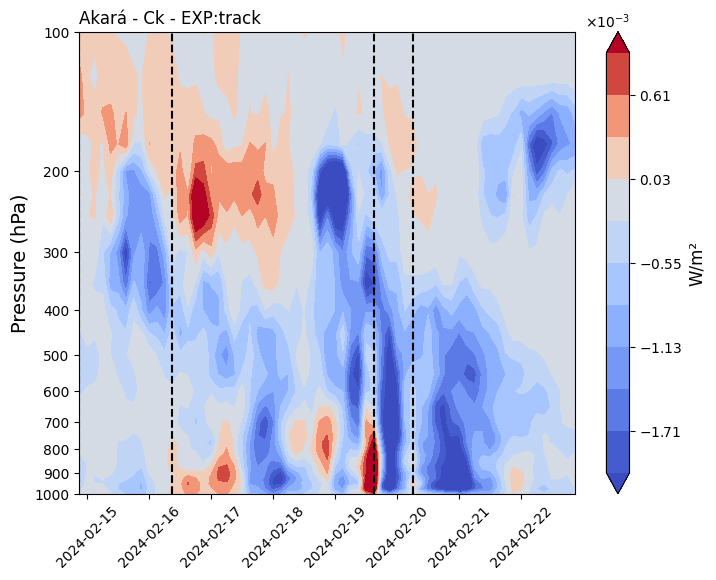
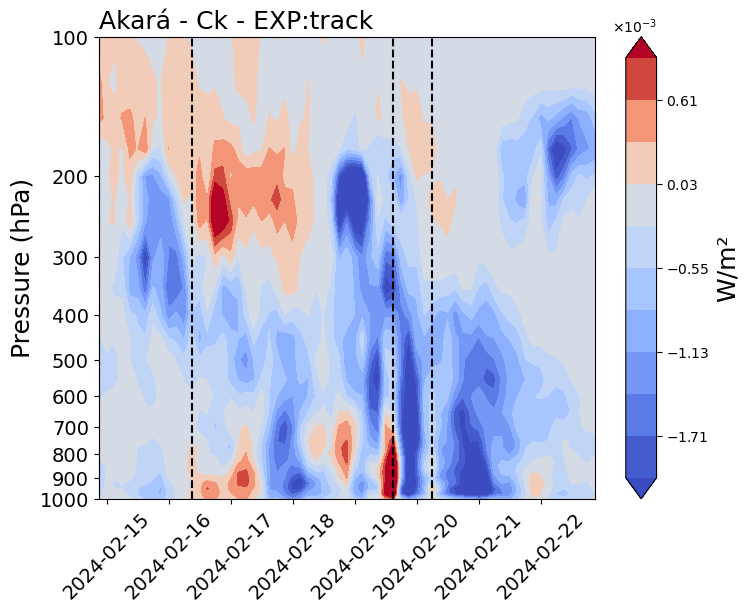
atualização ck

Changed region(s): [[0.0, 0.0, 0.9832, 0.9931]]

diff --git a/Akara/AtmosBud/akara1_track/Scripts/ck_hov.py b/Akara/AtmosBud/akara1_track/Scripts/ck_hov.py
@@ -5,6 +5,7 @@ import pandas as pd
 from matplotlib.colors import TwoSlopeNorm
 from matplotlib.ticker import ScalarFormatter
 from matplotlib.dates import DateFormatter
+import os
 
 # Diretórios dos dados e das figuras
 DIRDADO = '/home/victor/USP/sinotica3/ATMOS-BUD_Results/Akara/AtmosBud/akara1_track/'
@@ -49,11 +50,22 @@ norm = TwoSlopeNorm(vmin=vmin, vcenter=0, vmax=vmax)
 fig, ax = plt.subplots(figsize=(8, 6))
 
 # Gerando o gráfico Hovmöller com contornos preenchidos
+# Gerando o gráfico Hovmöller com contornos preenchidos
 im = ax.contourf(df.columns, df.index, df.values, cmap='coolwarm', extend='both',  
                  norm=norm, levels=np.linspace(vmin, vmax, 11))
 
 # Adicionando a barra de cores
-cbar = fig.colorbar(im)
+cbar = fig.colorbar(im, pad=0.05, aspect=15)
+
+# Ajustando a fonte e o tamanho da barra de cores
+cbar.set_label('W/m²', fontsize=18) 
+cbar.ax.tick_params(labelsize=14)  
+
+# Se necessário, adicione formatação científica (já foi feito acima)
+cbar.formatter = ScalarFormatter(useMathText=True)
+cbar.formatter.set_scientific(True)
+cbar.formatter.set_powerlimits((-3, 3))
+cbar.update_ticks()
 
 ax.invert_yaxis()
 ax.set_ylim(1000, 100)
@@ -70,13 +82,15 @@ for time in ['2024-02-14T21', '2024-02-16T09', '2024-02-19T15', '2024-02-20T06']
 ax.xaxis.set_major_locator(mdates.AutoDateLocator())
 ax.xaxis.set_major_formatter(DateFormatter('%Y-%m-%d'))
 ax.tick_params(axis='x', labelrotation=45)
+ax.tick_params(axis='x', labelsize=14)  # Fonte para os rótulos do eixo X
+ax.tick_params(axis='y', labelsize=14)
 
 # Configurar título e rótulos dos eixos
-ax.set_title(f'Akará - Ck - EXP:track', fontsize=12, loc='left')
-ax.set_ylabel('Pressure (hPa)', fontsize=14)
+ax.set_title(f'Akará - Ck - EXP:track', fontsize=18, loc='left')
+ax.set_ylabel('Pressure (hPa)', fontsize=18)
 
 # Editar legenda da barra de cores
-cbar.set_label('W/m²', fontsize=12)
+cbar.set_label('W/m²', fontsize=18)
 cbar.ax.tick_params(labelsize=10)
 
 # Adicionar formatação científica à barra de cores
@@ -85,8 +99,14 @@ cbar.formatter.set_scientific(True)
 cbar.formatter.set_powerlimits((-3, 3))
 cbar.update_ticks()
 
+# Caminho completo do arquivo a ser salvo
+output_path = DIRFIGS + nome_arquivo + '_hov.png'
+
 # Salvar o gráfico
-plt.savefig(DIRFIGS + nome_arquivo + '_hov.png', bbox_inches='tight')
+plt.savefig(output_path, bbox_inches='tight')
 
 # Fechar a figura
 plt.close()
+
+# Exibir onde o arquivo foi salvo
+print(f"Gráfico Hovmöller salvo em: {output_path}")
